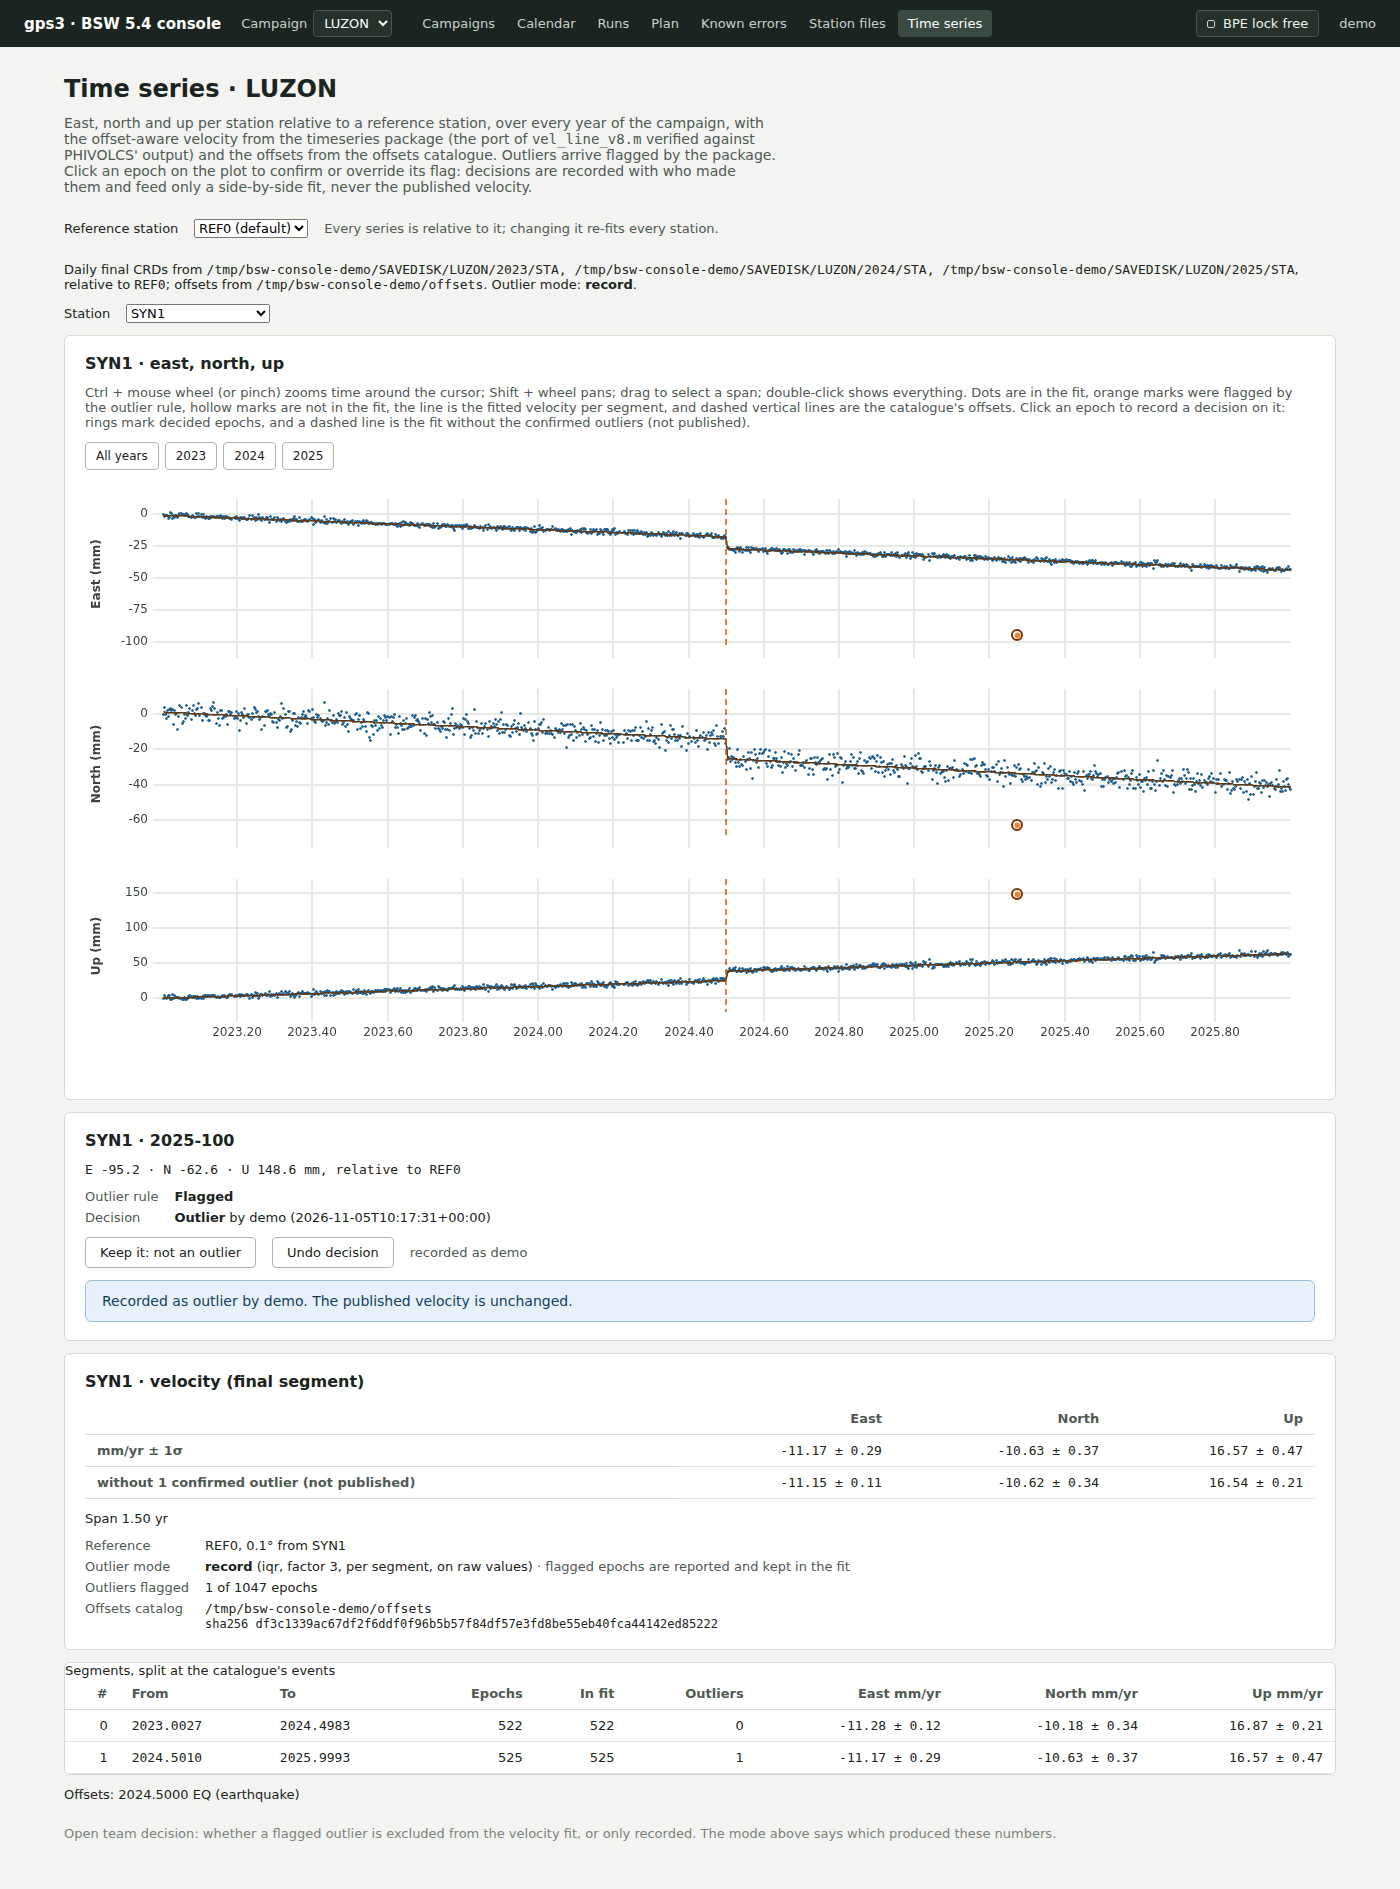
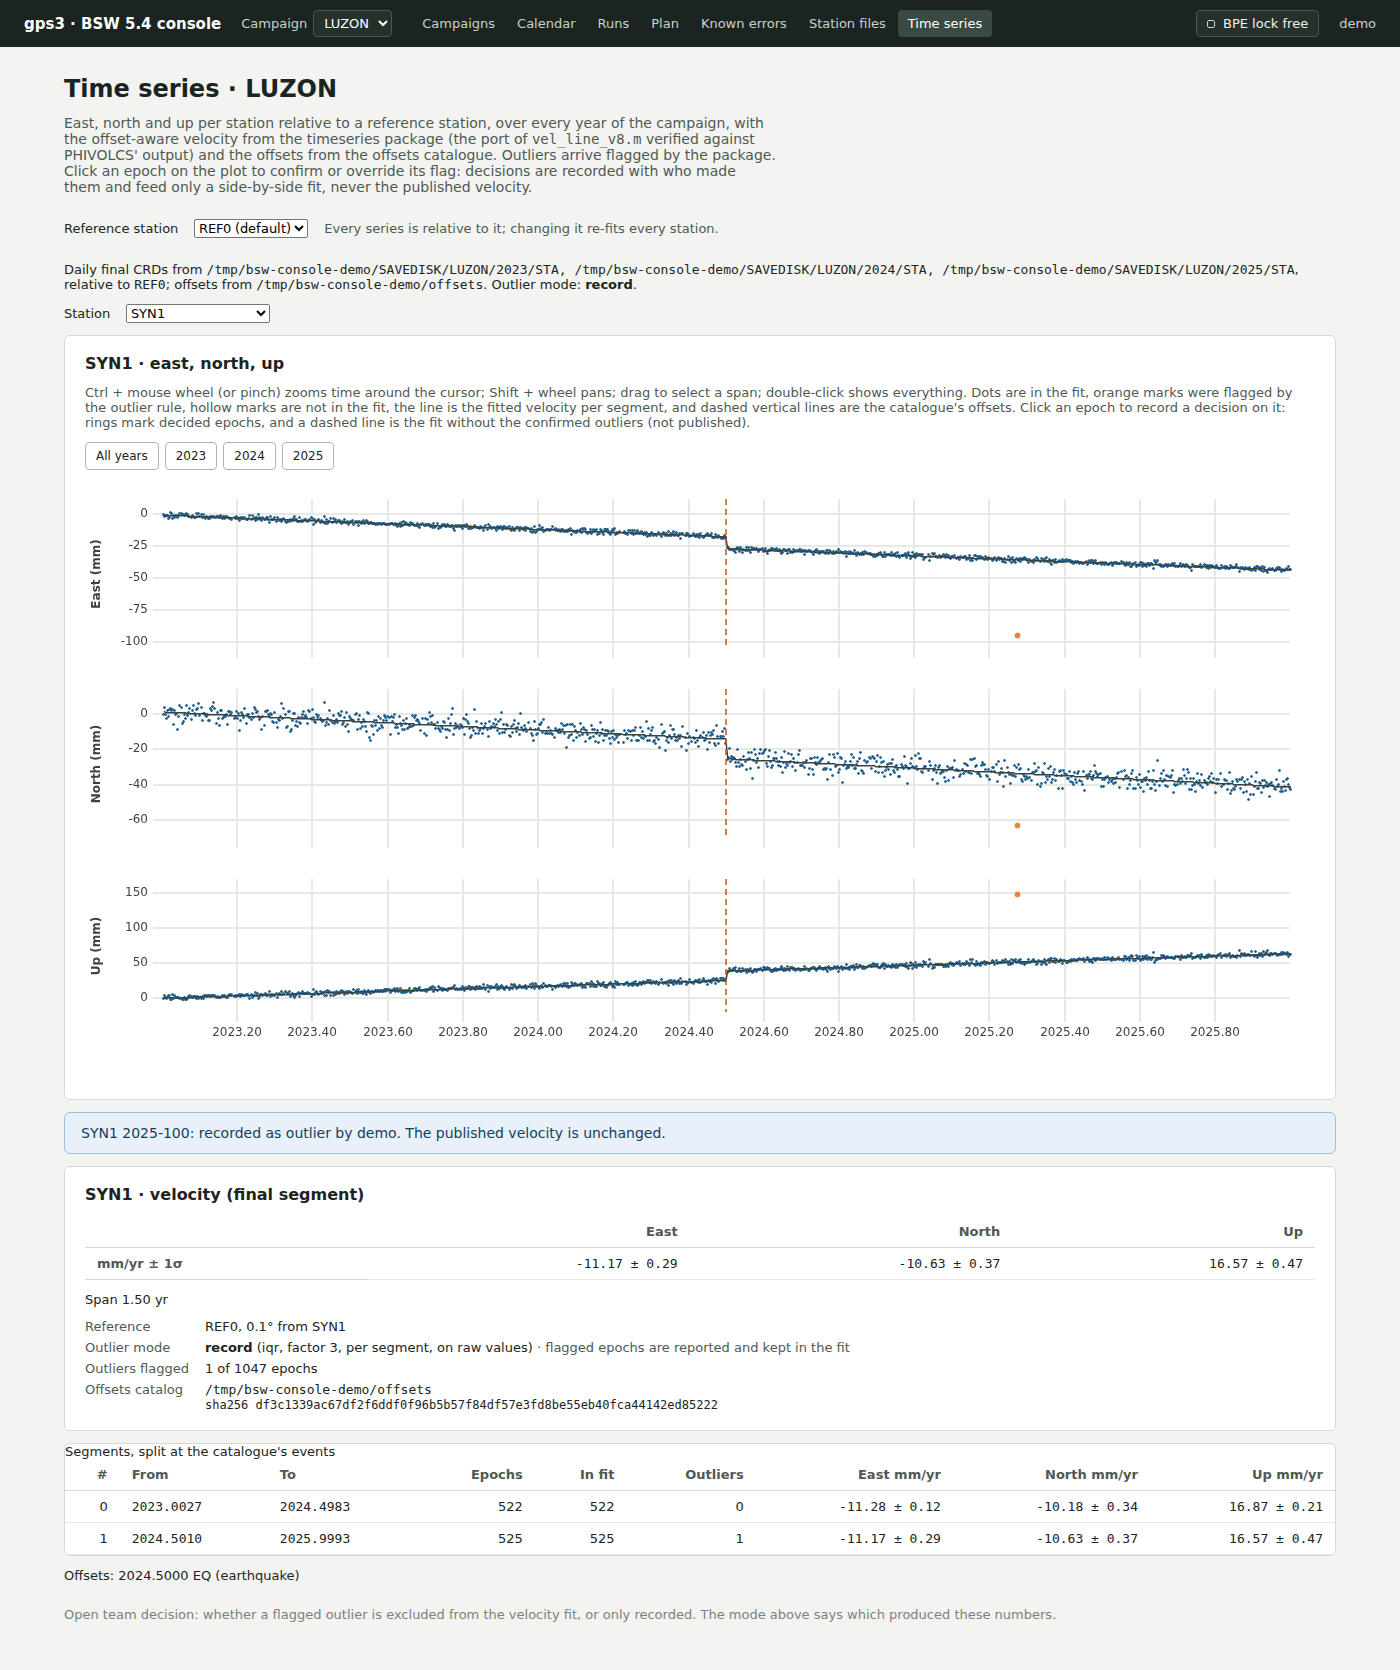
docs(console): the work instruction and its images follow the decision popup
Section 6.3 and its two images now show the popup beside the point, and the line
under the plot that recording leaves. The script frames the plot with the popup,
which is what that image is for.

diff --git a/scripts/console_screenshots.py b/scripts/console_screenshots.py
@@ -241,9 +241,12 @@ def time_series_shots(page: Page, url: str, out: Path) -> None:
         raise SystemExit(f"could not click {epoch}")
     # The buttons need /api/session, which the form only starts to fetch once it opens.
     page.get_by_role("button", name="Confirm outlier").wait_for(timeout=20000)
-    page.locator("#ts-decide").locator("..").screenshot(path=out / "outlier_decision.png")
+    # The plot with the popup beside its point, which is what the image is for.
+    page.locator('[data-testid="ts-plot"]').locator("..").screenshot(
+        path=out / "outlier_decision.png"
+    )
     page.get_by_role("button", name="Confirm outlier").click()
-    page.get_by_role("button", name="Undo decision").wait_for(timeout=20000)
+    page.get_by_text("(not published)").first.wait_for(timeout=20000)
     page.get_by_role("button", name="All years").click()
     page.wait_for_timeout(300)
     page.screenshot(path=out / "time_series.png", full_page=True)

diff --git a/docs/bsw_console_work_instruction_draft.md b/docs/bsw_console_work_instruction_draft.md
@@ -259,15 +259,15 @@ segment under the one-year minimum shows crossed out.
 | 6.2.5–6.2.6 Check the `123` file and the `offsets` file | Choose a **Station** from the list. The page shows the offsets that apply to it, and whether each falls inside the series. **The catalogue on gps3 is the campaign snapshot in this repository, and the continuous stations' catalogue has not been copied (section 8).** A continuous station can show no offsets because they are missing, and its velocity is then fitted straight across any real step. Check those against your own list |
 | 6.2.7 Run `vel_line_v8.m` | Shown for the station chosen. A plot of East, North and Up on one time axis replaces the JPG: epochs in the fit as dots, epochs the outlier rule flagged in orange, epochs left out of the fit for any other reason hollow, the fitted line for each segment, and the catalogue's offsets as dashed lines. Ctrl with the mouse wheel zooms, Shift with the wheel pans, dragging selects a span, and a double-click shows everything. Below it: the velocity of the final segment with its 1-sigma, East, North and Up, and the span it covers, with a note when the newest epochs are too few to fit, so the rate is the one before the latest event; then, for each segment between offsets, its start and end as decimal years, epochs, epochs in the fit, outliers and velocities. A final segment shorter than the minimum span (one year) is crossed out, because a rate from too little data means nothing |
 | 6.2 note: horizontal only, usually | Unchanged. The page shows Up as well; read it with the same care |
-| 6.3 Outlier removal: `outlier_input-site.py`, right-click, hand-edit PLOT files, re-run MATLAB | Click an epoch on the plot; a drag doesn't pick one. A form shows the rule's flag and any decision so far. A flagged epoch offers **Confirm outlier**, or **Keep it: not an outlier** with a reason. An unflagged one offers **Mark as outlier** with a reason. **Undo decision** takes a decision back. Each decision is kept with your name, the reference station and a hash of the day's CRD files, and no file is edited. Rings mark decided epochs. A dashed line and a row marked "not published" show the fit without the confirmed outliers. A decision made against another reference station, or on a day since reprocessed, is shown as such and not applied. The page's outlier mode stays `record`: flagged epochs are reported and kept in the fit. Decisions don't reach PLOT files or production plots; for those, keep using `tools/velocity-reviewer` |
+| 6.3 Outlier removal: `outlier_input-site.py`, right-click, hand-edit PLOT files, re-run MATLAB | Click an epoch on the plot; a drag doesn't pick one. A small popup opens beside the point, with the rule's flag and any decision so far. A flagged epoch offers **Confirm outlier**, or **Keep it: not an outlier** with a reason. An unflagged one offers **Mark as outlier** with a reason. **Undo decision** takes a decision back. Recording closes the popup, so you can go straight to the next epoch; Escape, the close button or a click elsewhere closes it too. Each decision is kept with your name, the reference station and a hash of the day's CRD files, and no file is edited. Rings mark decided epochs. A dashed line and a row marked "not published" show the fit without the confirmed outliers. A decision made against another reference station, or on a day since reprocessed, is shown as such and not applied. The page's outlier mode stays `record`: flagged epochs are reported and kept in the fit. Decisions don't reach PLOT files or production plots; for those, keep using `tools/velocity-reviewer` |
 
-The page after a flagged epoch was confirmed: the ring on the plot, the decision form, and a velocity row marked "not published" beside the one that counts.
+The page after a flagged epoch was confirmed: the ring on the plot, a line saying what was recorded, and a velocity row marked "not published" beside the one that counts.
 
-![Time series page for a synthetic station: East, North and Up over three years with an earthquake step and one ringed outlier, the decision form, and the velocity and segment tables.](images/bsw_console/time_series.png)
+![Time series page for a synthetic station: East, North and Up over three years with an earthquake step and one ringed outlier, a line saying what was recorded, and the velocity and segment tables.](images/bsw_console/time_series.png)
 
-The form on a flagged epoch, before anything is recorded:
+The popup on a flagged epoch, before anything is recorded:
 
-![Decision form for one epoch: the rule flagged it and no decision is recorded yet, with Confirm outlier and Keep it: not an outlier buttons.](images/bsw_console/outlier_decision.png)
+![The plot with a popup beside one ringed epoch: the rule flagged it and no decision is recorded yet, with Confirm outlier and Keep it: not an outlier buttons.](images/bsw_console/outlier_decision.png)
 
 Whether a confirmed outlier is left out of the published fit is an open team
 decision (`docs/SETTLED.md` §6). The page names the mode it used so the numbers
